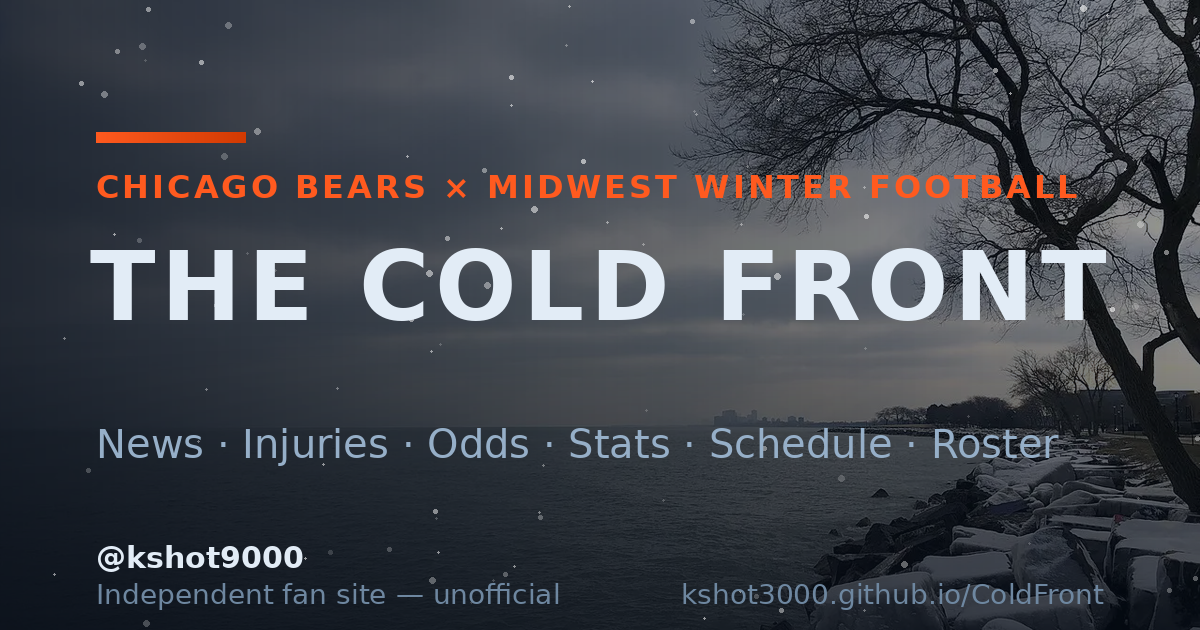
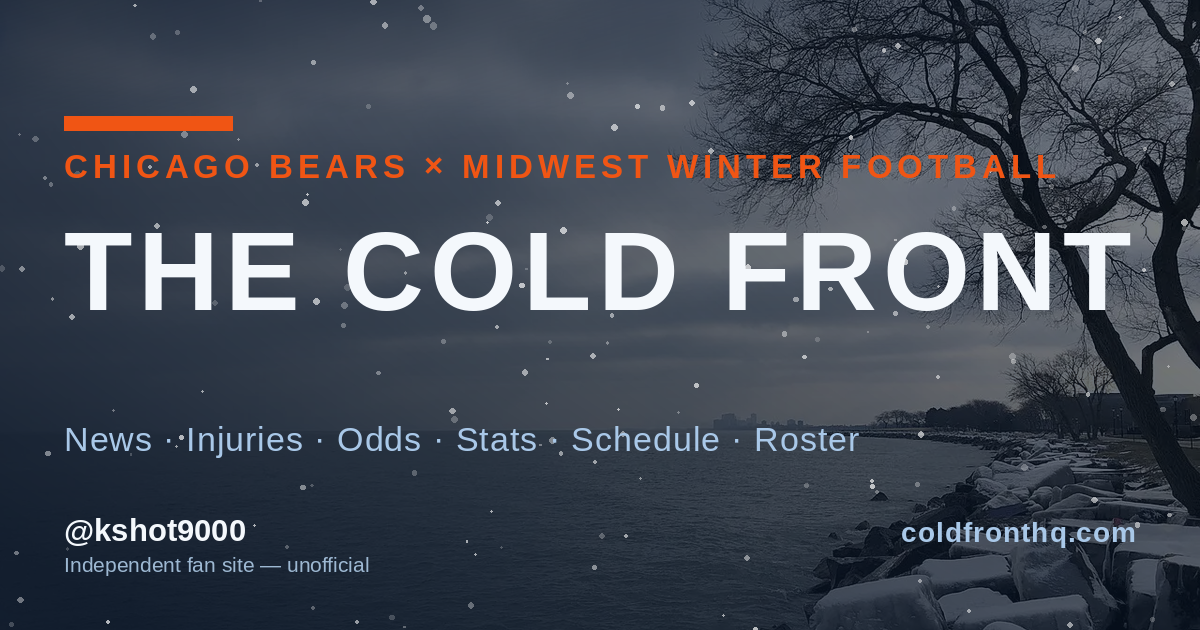
Polish v1.173.0: the X share card resolves straight off coldfronthq.com — every page's og:image/twitter:image pointed at the github.io project URL, which answers with a 301 to the custom domain (X's card crawler can fail on a redirected og:image, so shares rendered badly or with no card), and the ca

diff --git a/index.html b/index.html
@@ -9,8 +9,8 @@
   <meta property="og:title" content="THE COLD FRONT — Chicago Bears × Midwest Winter Football">
   <meta property="og:description" content="News, injuries, odds, stats, schedule, roster & practice — everything a Bears fan wants in one place.">
   <meta property="og:type" content="website">
-  <meta property="og:url" content="https://kshot3000.github.io/ColdFront/">
-  <meta property="og:image" content="https://kshot3000.github.io/ColdFront/img/og-image.png">
+  <meta property="og:url" content="https://coldfronthq.com/">
+  <meta property="og:image" content="https://coldfronthq.com/img/og-image.png">
   <meta property="og:image:width" content="1200">
   <meta property="og:image:height" content="630">
   <meta property="og:image:alt" content="THE COLD FRONT — Chicago Bears × Midwest Winter Football">
@@ -18,7 +18,7 @@
   <meta name="twitter:site" content="@kshot9000">
   <meta name="twitter:title" content="THE COLD FRONT — Chicago Bears × Midwest Winter Football">
   <meta name="twitter:description" content="THE COLD FRONT — the all-in-one Chicago Bears fan hub. Live news, injury report, betting odds, game stats & schedule, roster, practice intel. Independent. Unofficial. Built for Da Bears.">
-  <meta name="twitter:image" content="https://kshot3000.github.io/ColdFront/img/og-image.png">
+  <meta name="twitter:image" content="https://coldfronthq.com/img/og-image.png">
   <link rel="icon" type="image/svg+xml" href="img/favicon.svg">
   <link rel="manifest" href="manifest.webmanifest">
   <link rel="apple-touch-icon" href="img/apple-touch-icon.png">
@@ -32,7 +32,7 @@
   <link rel="preconnect" href="https://fonts.googleapis.com">
   <link rel="preconnect" href="https://fonts.gstatic.com" crossorigin>
   <link href="https://fonts.googleapis.com/css2?family=Oswald:wght@500;600;700&family=Inter:wght@400;500;600;700&display=swap" rel="stylesheet">
-  <link rel="stylesheet" href="css/main.css?v=1.172.0">
+  <link rel="stylesheet" href="css/main.css?v=1.173.0">
   <link rel="stylesheet" href="css/experience.css?v=1.160.0">
   <script async src="https://pagead2.googlesyndication.com/pagead/js/adsbygoogle.js?client=ca-pub-3316742664595468"
        crossorigin="anonymous"></script>

diff --git a/odds.html b/odds.html
@@ -8,8 +8,8 @@
   <meta name="description" content="Chicago Bears odds: Vegas lines from the league wire, Polymarket prediction-market odds, and an optional full-book board via your own The Odds API key.">
   <meta property="og:title" content="Odds &amp; Markets — THE COLD FRONT">
   <meta property="og:type" content="website">
-  <meta property="og:url" content="https://kshot3000.github.io/ColdFront/odds.html">
-  <meta property="og:image" content="https://kshot3000.github.io/ColdFront/img/og-image.png">
+  <meta property="og:url" content="https://coldfronthq.com/odds.html">
+  <meta property="og:image" content="https://coldfronthq.com/img/og-image.png">
   <meta property="og:image:width" content="1200">
   <meta property="og:image:height" content="630">
   <meta property="og:image:alt" content="THE COLD FRONT — Chicago Bears × Midwest Winter Football">
@@ -17,7 +17,7 @@
   <meta name="twitter:site" content="@kshot9000">
   <meta name="twitter:title" content="Odds &amp; Markets — THE COLD FRONT">
   <meta name="twitter:description" content="Chicago Bears odds: Vegas lines from the league wire, Polymarket prediction-market odds, and an optional full-book board via your own The Odds API key.">
-  <meta name="twitter:image" content="https://kshot3000.github.io/ColdFront/img/og-image.png">
+  <meta name="twitter:image" content="https://coldfronthq.com/img/og-image.png">
   <link rel="icon" type="image/svg+xml" href="img/favicon.svg">
   <link rel="manifest" href="manifest.webmanifest">
   <link rel="apple-touch-icon" href="img/apple-touch-icon.png">
@@ -28,7 +28,7 @@
   <link rel="preconnect" href="https://fonts.googleapis.com">
   <link rel="preconnect" href="https://fonts.gstatic.com" crossorigin>
   <link href="https://fonts.googleapis.com/css2?family=Oswald:wght@500;600;700&family=Inter:wght@400;500;600;700&display=swap" rel="stylesheet">
-  <link rel="stylesheet" href="css/main.css?v=1.172.0">
+  <link rel="stylesheet" href="css/main.css?v=1.173.0">
   <link rel="stylesheet" href="css/experience.css?v=1.160.0">
   <script async src="https://pagead2.googlesyndication.com/pagead/js/adsbygoogle.js?client=ca-pub-3316742664595468"
        crossorigin="anonymous"></script>

diff --git a/practice.html b/practice.html
@@ -8,8 +8,8 @@
   <meta name="description" content="Chicago Bears practice and training camp information, official Halas Hall resources, and confirmed practice updates. Independent fan site.">
   <meta property="og:title" content="Practice &amp; Facility — THE COLD FRONT">
   <meta property="og:type" content="website">
-  <meta property="og:url" content="https://kshot3000.github.io/ColdFront/practice.html">
-  <meta property="og:image" content="https://kshot3000.github.io/ColdFront/img/og-image.png">
+  <meta property="og:url" content="https://coldfronthq.com/practice.html">
+  <meta property="og:image" content="https://coldfronthq.com/img/og-image.png">
   <meta property="og:image:width" content="1200">
   <meta property="og:image:height" content="630">
   <meta property="og:image:alt" content="THE COLD FRONT — Chicago Bears × Midwest Winter Football">
@@ -17,7 +17,7 @@
   <meta name="twitter:site" content="@kshot9000">
   <meta name="twitter:title" content="Practice &amp; Facility — THE COLD FRONT">
   <meta name="twitter:description" content="Chicago Bears practice and training camp information, official Halas Hall resources, and confirmed practice updates. Independent fan site.">
-  <meta name="twitter:image" content="https://kshot3000.github.io/ColdFront/img/og-image.png">
+  <meta name="twitter:image" content="https://coldfronthq.com/img/og-image.png">
   <link rel="icon" type="image/svg+xml" href="img/favicon.svg">
   <link rel="manifest" href="manifest.webmanifest">
   <link rel="apple-touch-icon" href="img/apple-touch-icon.png">
@@ -28,7 +28,7 @@
   <link rel="preconnect" href="https://fonts.googleapis.com">
   <link rel="preconnect" href="https://fonts.gstatic.com" crossorigin>
   <link href="https://fonts.googleapis.com/css2?family=Oswald:wght@500;600;700&family=Inter:wght@400;500;600;700&display=swap" rel="stylesheet">
-  <link rel="stylesheet" href="css/main.css?v=1.172.0">
+  <link rel="stylesheet" href="css/main.css?v=1.173.0">
   <link rel="stylesheet" href="css/experience.css?v=1.160.0">
   <script async src="https://pagead2.googlesyndication.com/pagead/js/adsbygoogle.js?client=ca-pub-3316742664595468"
        crossorigin="anonymous"></script>

diff --git a/about.html b/about.html
@@ -8,8 +8,8 @@
   <meta name="description" content="About THE COLD FRONT: the independent Chicago Bears winter-football fan site. The builder, their other projects, donation addresses, and the socials.">
   <meta property="og:title" content="About — THE COLD FRONT">
   <meta property="og:type" content="website">
-  <meta property="og:url" content="https://kshot3000.github.io/ColdFront/about.html">
-  <meta property="og:image" content="https://kshot3000.github.io/ColdFront/img/og-image.png">
+  <meta property="og:url" content="https://coldfronthq.com/about.html">
+  <meta property="og:image" content="https://coldfronthq.com/img/og-image.png">
   <meta property="og:image:width" content="1200">
   <meta property="og:image:height" content="630">
   <meta property="og:image:alt" content="THE COLD FRONT — Chicago Bears × Midwest Winter Football">
@@ -17,7 +17,7 @@
   <meta name="twitter:site" content="@kshot9000">
   <meta name="twitter:title" content="About — THE COLD FRONT">
   <meta name="twitter:description" content="About THE COLD FRONT: the independent Chicago Bears winter-football fan site. The builder, their other projects, donation addresses, and the socials.">
-  <meta name="twitter:image" content="https://kshot3000.github.io/ColdFront/img/og-image.png">
+  <meta name="twitter:image" content="https://coldfronthq.com/img/og-image.png">
   <link rel="icon" type="image/svg+xml" href="img/favicon.svg">
   <link rel="manifest" href="manifest.webmanifest">
   <link rel="apple-touch-icon" href="img/apple-touch-icon.png">
@@ -28,7 +28,7 @@
   <link rel="preconnect" href="https://fonts.googleapis.com">
   <link rel="preconnect" href="https://fonts.gstatic.com" crossorigin>
   <link href="https://fonts.googleapis.com/css2?family=Oswald:wght@500;600;700&family=Inter:wght@400;500;600;700&display=swap" rel="stylesheet">
-  <link rel="stylesheet" href="css/main.css?v=1.172.0">
+  <link rel="stylesheet" href="css/main.css?v=1.173.0">
   <link rel="stylesheet" href="css/experience.css?v=1.160.0">
   <script async src="https://pagead2.googlesyndication.com/pagead/js/adsbygoogle.js?client=ca-pub-3316742664595468"
        crossorigin="anonymous"></script>

diff --git a/highlights.html b/highlights.html
@@ -9,8 +9,8 @@
   <meta property="og:title" content="Game Highlights — THE COLD FRONT">
   <meta property="og:description" content="Bears game highlights: league reels from the official NFL channel plus the latest videos from the Chicago Bears channel.">
   <meta property="og:type" content="website">
-  <meta property="og:url" content="https://kshot3000.github.io/ColdFront/highlights.html">
-  <meta property="og:image" content="https://kshot3000.github.io/ColdFront/img/og-image.png">
+  <meta property="og:url" content="https://coldfronthq.com/highlights.html">
+  <meta property="og:image" content="https://coldfronthq.com/img/og-image.png">
   <meta property="og:image:width" content="1200">
   <meta property="og:image:height" content="630">
   <meta property="og:image:alt" content="THE COLD FRONT — Chicago Bears × Midwest Winter Football">
@@ -18,7 +18,7 @@
   <meta name="twitter:site" content="@kshot9000">
   <meta name="twitter:title" content="Game Highlights — THE COLD FRONT">
   <meta name="twitter:description" content="Bears game highlights: league reels from the official NFL channel plus the latest videos from the Chicago Bears channel.">
-  <meta name="twitter:image" content="https://kshot3000.github.io/ColdFront/img/og-image.png">
+  <meta name="twitter:image" content="https://coldfronthq.com/img/og-image.png">
   <link rel="icon" type="image/svg+xml" href="img/favicon.svg">
   <link rel="manifest" href="manifest.webmanifest">
   <link rel="apple-touch-icon" href="img/apple-touch-icon.png">
@@ -29,7 +29,7 @@
   <link rel="preconnect" href="https://fonts.googleapis.com">
   <link rel="preconnect" href="https://fonts.gstatic.com" crossorigin>
   <link href="https://fonts.googleapis.com/css2?family=Oswald:wght@500;600;700&family=Inter:wght@400;500;600;700&display=swap" rel="stylesheet">
-  <link rel="stylesheet" href="css/main.css?v=1.172.0">
+  <link rel="stylesheet" href="css/main.css?v=1.173.0">
   <link rel="stylesheet" href="css/experience.css?v=1.160.0">
   <link rel="stylesheet" href="css/highlights.css?v=1.132.0">
   <script async src="https://pagead2.googlesyndication.com/pagead/js/adsbygoogle.js?client=ca-pub-3316742664595468"

diff --git a/injuries.html b/injuries.html
@@ -8,8 +8,8 @@
   <meta name="description" content="Chicago Bears injury report: community-maintained table plus a live injury wire that flags report-moving headlines. Independent fan site.">
   <meta property="og:title" content="Injuries — THE COLD FRONT">
   <meta property="og:type" content="website">
-  <meta property="og:url" content="https://kshot3000.github.io/ColdFront/injuries.html">
-  <meta property="og:image" content="https://kshot3000.github.io/ColdFront/img/og-image.png">
+  <meta property="og:url" content="https://coldfronthq.com/injuries.html">
+  <meta property="og:image" content="https://coldfronthq.com/img/og-image.png">
   <meta property="og:image:width" content="1200">
   <meta property="og:image:height" content="630">
   <meta property="og:image:alt" content="THE COLD FRONT — Chicago Bears × Midwest Winter Football">
@@ -17,7 +17,7 @@
   <meta name="twitter:site" content="@kshot9000">
   <meta name="twitter:title" content="Injuries — THE COLD FRONT">
   <meta name="twitter:description" content="Chicago Bears injury report: community-maintained table plus a live injury wire that flags report-moving headlines. Independent fan site.">
-  <meta name="twitter:image" content="https://kshot3000.github.io/ColdFront/img/og-image.png">
+  <meta name="twitter:image" content="https://coldfronthq.com/img/og-image.png">
   <link rel="icon" type="image/svg+xml" href="img/favicon.svg">
   <link rel="manifest" href="manifest.webmanifest">
   <link rel="apple-touch-icon" href="img/apple-touch-icon.png">
@@ -28,7 +28,7 @@
   <link rel="preconnect" href="https://fonts.googleapis.com">
   <link rel="preconnect" href="https://fonts.gstatic.com" crossorigin>
   <link href="https://fonts.googleapis.com/css2?family=Oswald:wght@500;600;700&family=Inter:wght@400;500;600;700&display=swap" rel="stylesheet">
-  <link rel="stylesheet" href="css/main.css?v=1.172.0">
+  <link rel="stylesheet" href="css/main.css?v=1.173.0">
   <link rel="stylesheet" href="css/experience.css?v=1.160.0">
   <script async src="https://pagead2.googlesyndication.com/pagead/js/adsbygoogle.js?client=ca-pub-3316742664595468"
        crossorigin="anonymous"></script>

diff --git a/games.html b/games.html
@@ -8,8 +8,8 @@
   <meta name="description" content="Chicago Bears games: live scoreboard, full season log with results, box scores, and NFC North standings. Independent fan site.">
   <meta property="og:title" content="Games — THE COLD FRONT">
   <meta property="og:type" content="website">
-  <meta property="og:url" content="https://kshot3000.github.io/ColdFront/games.html">
-  <meta property="og:image" content="https://kshot3000.github.io/ColdFront/img/og-image.png">
+  <meta property="og:url" content="https://coldfronthq.com/games.html">
+  <meta property="og:image" content="https://coldfronthq.com/img/og-image.png">
   <meta property="og:image:width" content="1200">
   <meta property="og:image:height" content="630">
   <meta property="og:image:alt" content="THE COLD FRONT — Chicago Bears × Midwest Winter Football">
@@ -17,7 +17,7 @@
   <meta name="twitter:site" content="@kshot9000">
   <meta name="twitter:title" content="Games — THE COLD FRONT">
   <meta name="twitter:description" content="Chicago Bears games: live scoreboard, full season log with results, box scores, and NFC North standings. Independent fan site.">
-  <meta name="twitter:image" content="https://kshot3000.github.io/ColdFront/img/og-image.png">
+  <meta name="twitter:image" content="https://coldfronthq.com/img/og-image.png">
   <link rel="icon" type="image/svg+xml" href="img/favicon.svg">
   <link rel="manifest" href="manifest.webmanifest">
   <link rel="apple-touch-icon" href="img/apple-touch-icon.png">
@@ -28,7 +28,7 @@
   <link rel="preconnect" href="https://fonts.googleapis.com">
   <link rel="preconnect" href="https://fonts.gstatic.com" crossorigin>
   <link href="https://fonts.googleapis.com/css2?family=Oswald:wght@500;600;700&family=Inter:wght@400;500;600;700&display=swap" rel="stylesheet">
-  <link rel="stylesheet" href="css/main.css?v=1.172.0">
+  <link rel="stylesheet" href="css/main.css?v=1.173.0">
   <link rel="stylesheet" href="css/experience.css?v=1.160.0">
   <script async src="https://pagead2.googlesyndication.com/pagead/js/adsbygoogle.js?client=ca-pub-3316742664595468"
        crossorigin="anonymous"></script>

diff --git a/404.html b/404.html
@@ -20,8 +20,8 @@
   <meta property="og:title" content="404 — Whiteout — THE COLD FRONT">
   <meta property="og:description" content="404 — Whiteout — THE COLD FRONT">
   <meta property="og:type" content="website">
-  <meta property="og:url" content="https://kshot3000.github.io/ColdFront/404.html">
-  <meta property="og:image" content="https://kshot3000.github.io/ColdFront/img/og-image.png">
+  <meta property="og:url" content="https://coldfronthq.com/404.html">
+  <meta property="og:image" content="https://coldfronthq.com/img/og-image.png">
   <meta property="og:image:width" content="1200">
   <meta property="og:image:height" content="630">
   <meta property="og:image:alt" content="THE COLD FRONT — Chicago Bears × Midwest Winter Football">
@@ -29,7 +29,7 @@
   <meta name="twitter:site" content="@kshot9000">
   <meta name="twitter:title" content="404 — Whiteout — THE COLD FRONT">
   <meta name="twitter:description" content="404 — Whiteout — THE COLD FRONT">
-  <meta name="twitter:image" content="https://kshot3000.github.io/ColdFront/img/og-image.png">  <link rel="icon" type="image/svg+xml" href="img/favicon.svg">
+  <meta name="twitter:image" content="https://coldfronthq.com/img/og-image.png">  <link rel="icon" type="image/svg+xml" href="img/favicon.svg">
   <link rel="manifest" href="manifest.webmanifest">
   <link rel="apple-touch-icon" href="img/apple-touch-icon.png">
   <meta name="mobile-web-app-capable" content="yes">
@@ -37,7 +37,7 @@
   <meta name="apple-mobile-web-app-status-bar-style" content="black-translucent">
   <meta name="apple-mobile-web-app-title" content="Cold Front">
   <link href="https://fonts.googleapis.com/css2?family=Oswald:wght@500;600;700&family=Inter:wght@400;500;600;700&display=swap" rel="stylesheet">
-  <link rel="stylesheet" href="css/main.css?v=1.172.0">
+  <link rel="stylesheet" href="css/main.css?v=1.173.0">
   <link rel="stylesheet" href="css/experience.css?v=1.160.0">
   <script async src="https://pagead2.googlesyndication.com/pagead/js/adsbygoogle.js?client=ca-pub-3316742664595468"
        crossorigin="anonymous"></script>

diff --git a/news.html b/news.html
@@ -8,8 +8,8 @@
   <meta name="description" content="Live Chicago Bears news wire: headlines as they drop, with an injury wire rail. Independent fan site.">
   <meta property="og:title" content="News Wire — THE COLD FRONT">
   <meta property="og:type" content="website">
-  <meta property="og:url" content="https://kshot3000.github.io/ColdFront/news.html">
-  <meta property="og:image" content="https://kshot3000.github.io/ColdFront/img/og-image.png">
+  <meta property="og:url" content="https://coldfronthq.com/news.html">
+  <meta property="og:image" content="https://coldfronthq.com/img/og-image.png">
   <meta property="og:image:width" content="1200">
   <meta property="og:image:height" content="630">
   <meta property="og:image:alt" content="THE COLD FRONT — Chicago Bears × Midwest Winter Football">
@@ -17,7 +17,7 @@
   <meta name="twitter:site" content="@kshot9000">
   <meta name="twitter:title" content="News Wire — THE COLD FRONT">
   <meta name="twitter:description" content="Live Chicago Bears news wire: headlines as they drop, with an injury wire rail. Independent fan site.">
-  <meta name="twitter:image" content="https://kshot3000.github.io/ColdFront/img/og-image.png">
+  <meta name="twitter:image" content="https://coldfronthq.com/img/og-image.png">
   <link rel="icon" type="image/svg+xml" href="img/favicon.svg">
   <link rel="manifest" href="manifest.webmanifest">
   <link rel="apple-touch-icon" href="img/apple-touch-icon.png">
@@ -28,7 +28,7 @@
   <link rel="preconnect" href="https://fonts.googleapis.com">
   <link rel="preconnect" href="https://fonts.gstatic.com" crossorigin>
   <link href="https://fonts.googleapis.com/css2?family=Oswald:wght@500;600;700&family=Inter:wght@400;500;600;700&display=swap" rel="stylesheet">
-  <link rel="stylesheet" href="css/main.css?v=1.172.0">
+  <link rel="stylesheet" href="css/main.css?v=1.173.0">
   <link rel="stylesheet" href="css/experience.css?v=1.160.0">
   <script async src="https://pagead2.googlesyndication.com/pagead/js/adsbygoogle.js?client=ca-pub-3316742664595468"
        crossorigin="anonymous"></script>

diff --git a/team.html b/team.html
@@ -8,8 +8,8 @@
   <meta name="description" content="Chicago Bears roster: every player, positions, jersey numbers — searchable. Independent fan site.">
   <meta property="og:title" content="Team — THE COLD FRONT">
   <meta property="og:type" content="website">
-  <meta property="og:url" content="https://kshot3000.github.io/ColdFront/team.html">
-  <meta property="og:image" content="https://kshot3000.github.io/ColdFront/img/og-image.png">
+  <meta property="og:url" content="https://coldfronthq.com/team.html">
+  <meta property="og:image" content="https://coldfronthq.com/img/og-image.png">
   <meta property="og:image:width" content="1200">
   <meta property="og:image:height" content="630">
   <meta property="og:image:alt" content="THE COLD FRONT — Chicago Bears × Midwest Winter Football">
@@ -17,7 +17,7 @@
   <meta name="twitter:site" content="@kshot9000">
   <meta name="twitter:title" content="Team — THE COLD FRONT">
   <meta name="twitter:description" content="Chicago Bears roster: every player, positions, jersey numbers — searchable. Independent fan site.">
-  <meta name="twitter:image" content="https://kshot3000.github.io/ColdFront/img/og-image.png">
+  <meta name="twitter:image" content="https://coldfronthq.com/img/og-image.png">
   <link rel="icon" type="image/svg+xml" href="img/favicon.svg">
   <link rel="manifest" href="manifest.webmanifest">
   <link rel="apple-touch-icon" href="img/apple-touch-icon.png">
@@ -28,7 +28,7 @@
   <link rel="preconnect" href="https://fonts.googleapis.com">
   <link rel="preconnect" href="https://fonts.gstatic.com" crossorigin>
   <link href="https://fonts.googleapis.com/css2?family=Oswald:wght@500;600;700&family=Inter:wght@400;500;600;700&display=swap" rel="stylesheet">
-  <link rel="stylesheet" href="css/main.css?v=1.172.0">
+  <link rel="stylesheet" href="css/main.css?v=1.173.0">
   <link rel="stylesheet" href="css/experience.css?v=1.160.0">
   <script async src="https://pagead2.googlesyndication.com/pagead/js/adsbygoogle.js?client=ca-pub-3316742664595468"
        crossorigin="anonymous"></script>

diff --git a/stats.html b/stats.html
@@ -8,8 +8,8 @@
   <meta name="description" content="Chicago Bears stats: season pulse, player leaders, last game box score. Independent fan site.">
   <meta property="og:title" content="Stats — THE COLD FRONT">
   <meta property="og:type" content="website">
-  <meta property="og:url" content="https://kshot3000.github.io/ColdFront/stats.html">
-  <meta property="og:image" content="https://kshot3000.github.io/ColdFront/img/og-image.png">
+  <meta property="og:url" content="https://coldfronthq.com/stats.html">
+  <meta property="og:image" content="https://coldfronthq.com/img/og-image.png">
   <meta property="og:image:width" content="1200">
   <meta property="og:image:height" content="630">
   <meta property="og:image:alt" content="THE COLD FRONT — Chicago Bears × Midwest Winter Football">
@@ -17,7 +17,7 @@
   <meta name="twitter:site" content="@kshot9000">
   <meta name="twitter:title" content="Stats — THE COLD FRONT">
   <meta name="twitter:description" content="Chicago Bears stats: season pulse, player leaders, last game box score. Independent fan site.">
-  <meta name="twitter:image" content="https://kshot3000.github.io/ColdFront/img/og-image.png">
+  <meta name="twitter:image" content="https://coldfronthq.com/img/og-image.png">
   <link rel="icon" type="image/svg+xml" href="img/favicon.svg">
   <link rel="manifest" href="manifest.webmanifest">
   <link rel="apple-touch-icon" href="img/apple-touch-icon.png">
@@ -28,7 +28,7 @@
   <link rel="preconnect" href="https://fonts.googleapis.com">
   <link rel="preconnect" href="https://fonts.gstatic.com" crossorigin>
   <link href="https://fonts.googleapis.com/css2?family=Oswald:wght@500;600;700&family=Inter:wght@400;500;600;700&display=swap" rel="stylesheet">
-  <link rel="stylesheet" href="css/main.css?v=1.172.0">
+  <link rel="stylesheet" href="css/main.css?v=1.173.0">
   <link rel="stylesheet" href="css/experience.css?v=1.160.0">
   <script async src="https://pagead2.googlesyndication.com/pagead/js/adsbygoogle.js?client=ca-pub-3316742664595468"
        crossorigin="anonymous"></script>
